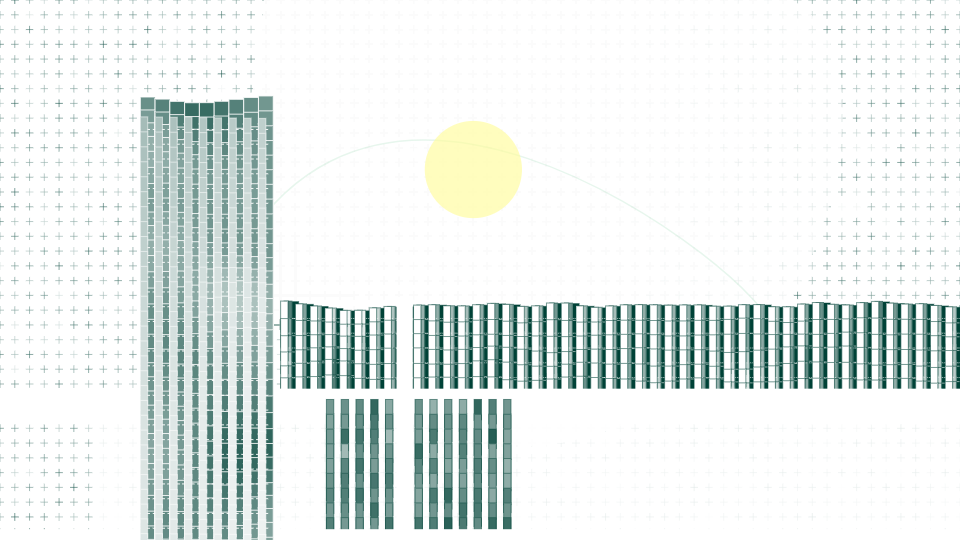
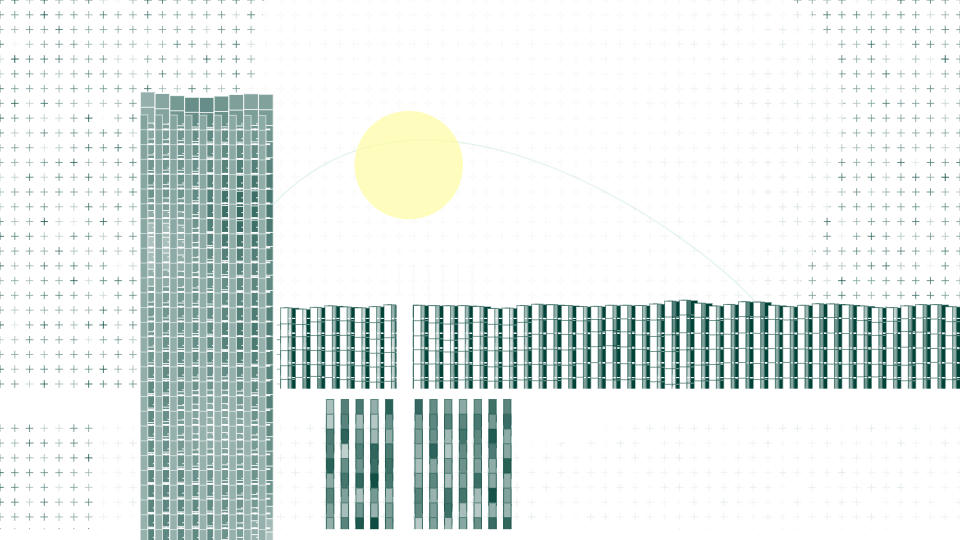
Loose ends
Updated readme, got rid of experimental script files, a couple little visual tweaks. Ready for hand in in case I don't want to do anything crazy tomorrow.

diff --git a/draw_one_frame.js b/draw_one_frame.js
@@ -182,8 +182,8 @@ function draw_one_frame(cur_frac,unitsOnField,unitSize,spacing) {
 		5,darker,darker,white,cur_frac* modifier,unitsOnField,unitSize,spacing
 		);
 	renderSquares(
-		width*.3,height*.6,  												// x and y position
-		width- (width*.25), height*.15, 									// width and height
+		width*.3,height*.6,  														// x and y position
+		width- (width*.25), height*.15, 											// width and height
 		5,white,darker,darker,cur_frac * modifier,unitsOnField,unitSize,spacing		// noise detail level, colours, inherited parameters
 		);		
 	renderSquares(
@@ -200,8 +200,8 @@ function draw_one_frame(cur_frac,unitsOnField,unitSize,spacing) {
 	rect(width*.1,(height*.72),width,height*.3);			// ground: white alpha region
 	pop(); 
 
-	modifier = phase * 0.5;
 	// bleepity bloopity traffic region
+		modifier = phase * 0.8;
 	renderSquares(
 		width*.34,height*.75,
 		width*.2, height*.25,
@@ -238,6 +238,7 @@ function draw_one_frame(cur_frac,unitsOnField,unitSize,spacing) {
 	//testRegion.renderRegion(cur_frac,unitsOnField,unitSize,spacing); 
 	// UNCOMMENTING THIS DRAWS IT !! I just had an issue where it wouldn't display, this has me very excited.
 	// Holding off on a full conversion for now due to a performance decrease I noticed.	
+	// So basically, this is a proof of concept for things I can do with this project post-handin.
 
 }
 

diff --git a/index.html b/index.html
@@ -1,4 +1,4 @@
-><head>
+<head>
     <script src="https://cdn.jsdelivr.net/npm/p5@1.9.0/lib/p5.js"></script>
     <script src="https://cdnjs.cloudflare.com/ajax/libs/seedrandom/2.4.3/seedrandom.min.js"></script>
     <script src="https://d3js.org/d3-random.v1.min.js"></script>
@@ -12,8 +12,6 @@
     <script type="text/javascript" src="z_recorder.js"></script>
     <script language="javascript" type="text/javascript" src="simplex-noise.js"></script>
     <script language="javascript" type="text/javascript" src="canvas_size_normal.js"></script>
-    <script type="text/javascript" src="texturegrid.js"></script>
-    <script type="text/javascript" src="classes.js"></script>
     <script language="javascript" type="text/javascript" src="draw_one_frame.js"></script>
     <script language="javascript" type="text/javascript" src="code.js"></script>
     <style> body {padding: 0; margin: 0;} </style>
@@ -35,11 +33,8 @@ r => start recording
 1,2,3 => change framerate
 ! = screen grab files
 </pre>
-<a href="texturegrid.js">texture tool class</a><br>
-<a href="classes.js">classes (DEPRECATED)</a><br>
 <a href="sketch.html">sketch</a><br>
 <a href="draw_one_frame.js">source code</a><br>
-<a href="preview.jpg">preview image</a><br>
 <a href="index.html">(normal [this one])</a><br>
 <a href="code_l.html">(large)</a><br>
 <a href="code_xl.html">(xlarge)</a><br>

diff --git a/code.js b/code.js
@@ -4,7 +4,7 @@ const debugZoomBackground = "#555588"
 const debugZoomScale = 0.5;
 
 // this can be modified after we discuss in lecture
-const buffersPerFrame = 10;
+const buffersPerFrame = 2;
 
 
 

diff --git a/README.md b/README.md
@@ -1,27 +1,22 @@
+![thumbnail](https://github.com/23-MDDN342/parameterised-space-robin-haxx/blob/master/thumbnail.png?raw=true)\
 
+**Project One: City of Noise**
 
-Update: Refactoring! Now I have a function to draw areas of grids, with noise. I want to keep packaging the code into this and have different "styles" e.g. arrangements of shapes that produce different textures, so I can focus on building the ideal composition and vibe.
-Right now I'm looking back through past iterations for what to include here, and frying my brain cleaning up the project file. I also moved some variables into the code.js draw scope.
-!
+For this project I aimed to produce a piece of animation that engages with architectural form, initially driven by the idea of projection mapping visual textures onto sculptural or stage-set installations. \
+My initial visual goal was something that highlighted the relationship between abstract cyber-aesthetics and more organic design.\
+As my process developed, I realised how important it would be to build functions to use as tools to define regions of texture, so a big part of the process was experimenting with what makes the best toolset when writing in code.
+These "textures" are regions defined, split uniformy into components (primarily layered squares and rectangles), then coordinated in movement with either smooth animation or spontaneous noise. As the project went on, these two methods worked more hand-in-hand.
 
+I explored different tech-leaning design styles, starting with darker, strobey stuff inspired by DJ visuals - but moving towards using the tools I built to design the final composition for a Zoom background, I decided on a brighter, futuristic cityscape.\
+I stuck to one colour to interpolate to and from white, finally adding yellow to the palette to complement the sun animation.
 
-
-
-Initial idea statement; revisited..
-
-For this project I aimed to produce a piece of animation that is ready to apply to architectural form via projection mapping, either a blank wall mass of any scale or something more purpose-built such as a stage set or other audio-visual installation.\
-I think I've made a lot of progress in working out how to do this, and the guidance in creating noise has been really helpful. Being able to define a region to split uniformy into components, then coordinate their behaviour with either smooth animation or spontaneous noise, is the key to what I was going for here. 
-I explored a few different ways the grid components could be designed, mostly by layering animated rectangle shapes, sometimes making each component large enough to layer over its neighbours. I coded a tool to move the region by mouse movement, wrote code for a "highlight" layer of elements to follow the mouse around, and finally settled on the idea of functions to create set x,y,width,height regions of different texture compositions.\
-I'm super interested in abstract, cyber-aesthetics and how they contrast against more organic forms, visual elements and movement. 
-I explored different tech-leaning design styles, starting with darker, strobey stuff inspired by DJ visuals - but moving towards using the tools I built to design the final composition for a Zoom background, I decided on a brighter, futuristic cityscape.
-
-I stuck to one colour to interpolate to and from white, and the last thing I am trying to implement is a branching algorithm.
+**Initial sketches:**
 
 ![sketch 1](https://github.com/23-MDDN342/parameterised-space-robin-haxx/blob/master/sketch.jpg?raw=true)\
 ![sketch 2](https://github.com/23-MDDN342/parameterised-space-robin-haxx/blob/master/readmeImages/sketch2.jpg?raw=true)\
 ![sketch 3](https://github.com/23-MDDN342/parameterised-space-robin-haxx/blob/master/readmeImages/sketch3.jpg?raw=true)
 
-inspiration (music + space)
+**inspiration (music + space)**
 
 ![Cityscape](https://github.com/23-MDDN342/parameterised-space-robin-haxx/blob/master/readmeImages/cityscape.png?raw=true)\
 "Cityscape", Earth Liberation Studio
@@ -74,15 +69,3 @@ i will do this too ...\
 -a function for growing, similarly to how I have used recursion before.\
 -I like how this used the space in a "tiled" format, while implementing
 systems for moving parts that interacted to make a varied overall piece.
-
-requirements:\
--consistent rendering at any resolution (scalable) and lends 
- itself to large-format application\
--perfect 24 frame loop and smooth, bug-free performance\
--organised, readable and accessible code standard
- & curated collection of commits. \
--varied use of coded elements and design patterns, creative 
- thought process and execution. unique voice.\
--this document tracks my thought process at every significant step
- and should be able to introduce the work well to a lay-person.\
--open source ethics, always.
